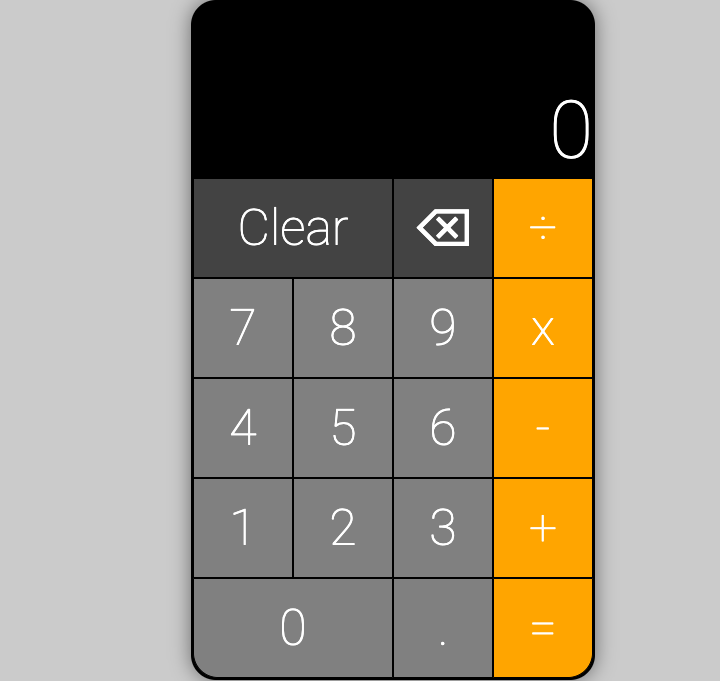
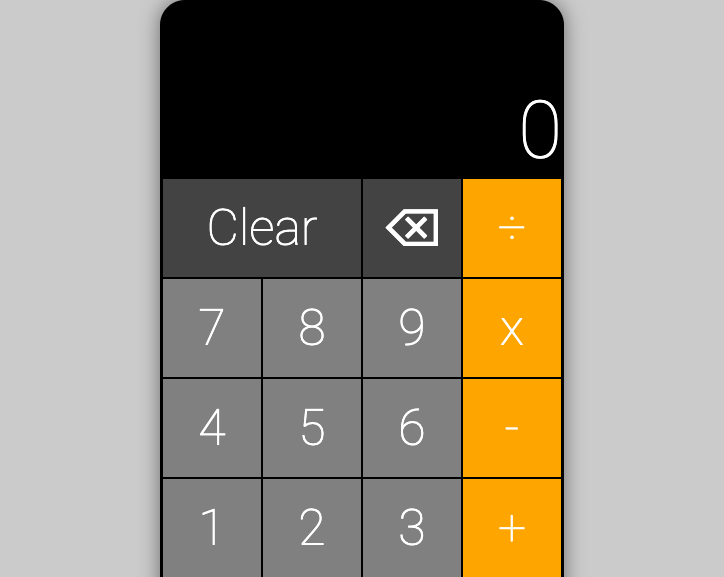
Add images, Make scrollable Work section, Optimize for the phone

Changed region(s): [[0.2139, 0.0, 0.8556, 1.0]]

diff --git a/index.html b/index.html
@@ -64,27 +64,34 @@
         <div class="description">
             <div class="projects">Projects</div>
             <div class="ive_done">I've done through The Odin Project™</div>
-            <div class="dont">(Don't open any of them on the phone tho lol)</div>
+            <div class="dont">(Don't open any of them on the phone tho lol)<br>(Scroll to the right! Pretty cool huh? xd)</div>
         </div>
         <div class="examples">
             <section class="scrolling">
-                <!-- <img src="calculator.png">
-                <img src="Rock-paper-scissors.png">
-                <img src="Landing-page.png">
-                <img src="etch-a-sketch.png"> -->
+                <img src="calculator.png">
+                <img src="rock-paper-scissors.png">
+                <img src="landing-page.png">
+                <img src="etch-a-sketch.png">
             </section>
         </div>
     </div>
 
-    <div class="contact"></div>
+    <div class="contact">CONTACT</div>
 
     <div class="footer"></div>
 
 </body>
 </html>
 
+<!-- <div class="calc_hover">
+    <div class="calc_text">Calculator</div>
+    <button class="calc_button">Check it out</button>
+</div> -->
+
 <!--Make the About section appear like at Lokkee's page-->
 <!--Add some animation to each section-->
+<!--Make loading screen when page is opened-->
+<!--Make header buttons take you to their sections-->
 
 <!-- <div class="right_intro">
     <div class="hello">Hello</div> 

diff --git a/styles.css b/styles.css
@@ -47,8 +47,8 @@ body {
     font-size: 17px;
     -webkit-backdrop-filter: blur(50px);
     backdrop-filter:blur(50px);
-    /* background-color: black; */
-    mix-blend-mode: difference;
+    background-color: black;
+    /* mix-blend-mode: difference; */
     z-index: 1;
 }
 
@@ -220,6 +220,16 @@ a:hover::before{
         padding:1em;
         text-align: center;
     }
+    .scrolling {
+        /* height: 50% !important;  */
+        display: flex;
+        flex-wrap: wrap;
+        overflow:none ;
+    }
+    .scrolling img {
+        width: 100% !important;
+    }
+    
 }
  /* .box img:hover, .box img.clicked{
         margin-left:500px;
@@ -325,16 +335,36 @@ a:hover::before{
     font-size: small;
 }
 
-.examples {
-    display:contents;
+/* .examples {
+    display:flex;
     width: fit-content;
-}
+} */
 
 .scrolling img {
-    width: 100vw;
-    height: 50%;
+    width: 90%;
+   
 }
 
 .scrolling {
+    display: flex;
+    /* width: 100%; */
     overflow-x: scroll;
 }
+
+
+/* .scrolling img:hover {
+    opacity: 1;
+} */
+
+/* .calc_hover {
+    position:absolute;
+    width: 100%;
+    height:59.6%;
+    opacity: 0;
+    transition: .5s ease;
+    background-color: #008CBA;
+}
+
+.calc_hover:hover {
+    opacity: 1;
+} */
